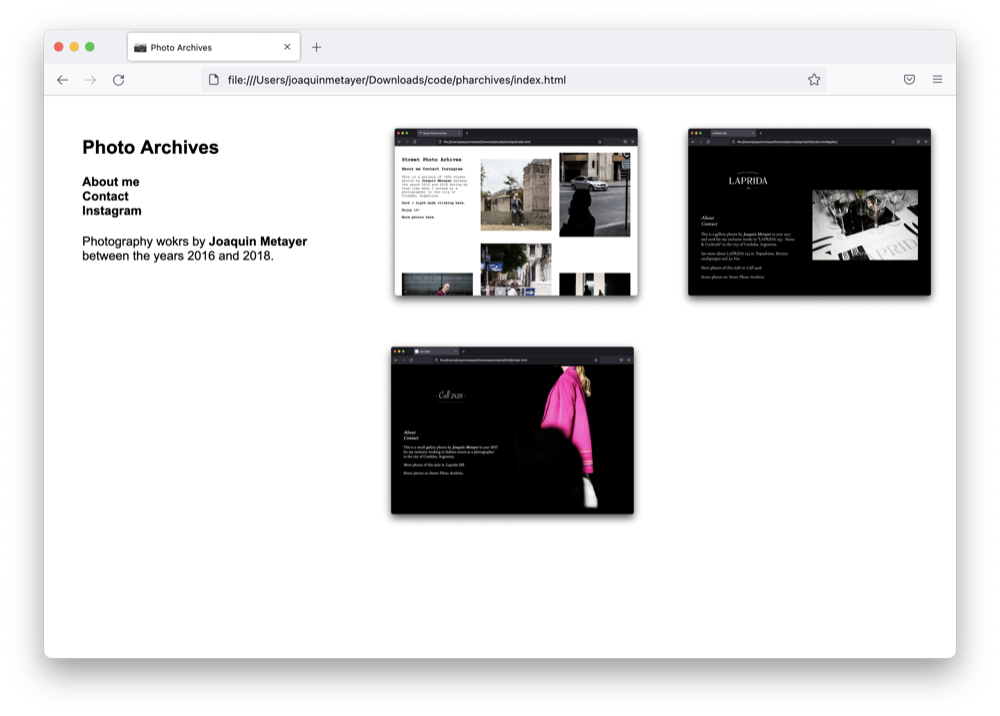
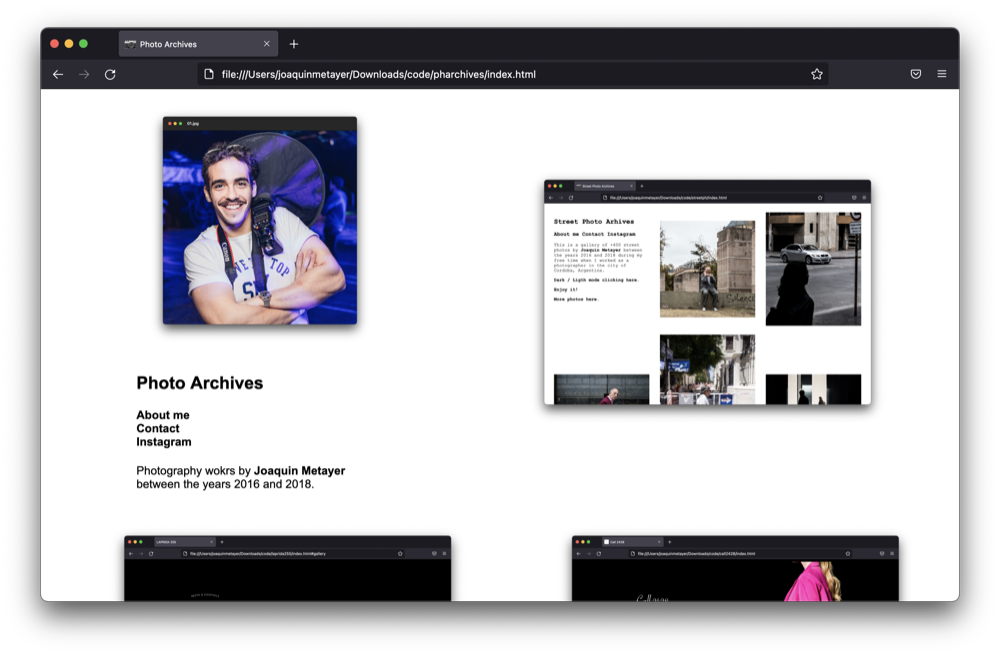
10

diff --git a/index.html b/index.html
@@ -8,14 +8,17 @@
     <link href="https://emojipedia-us.s3.dualstack.us-west-1.amazonaws.com/thumbs/240/apple/325/camera_1f4f7.png" rel="icon">
   </head>
   <body>
+    
     <div id="gallery">
+      
       <div id="description">
+        <img src="./Screen Shot 2022-07-17 at 00.25.27.png">
         <h2>Photo Archives </h2>
         <h4><a href="https://joaquinmetayer.github.io/personalweb/about.html" target="_blank"><strong>About me</strong></a><br>
             <a href="https://joaquinmetayer.github.io/personalweb/contact.html" target="_blank"><strong>Contact</strong></a><br>
             <a href="https://www.instagram.com/joaquinmetayer" target="_blank"><strong>Instagram</strong></a>
         </h4>
-        <p>Photography wokrs by <a href="https://joaquinmetayer.github.io/personalweb/index.html" target="_blank"><b>Joaquin Metayer</b></a> between the years 2016 and 2018.</p>
+        <p>Photography wokrs by <a href="https://joaquinmetayer.github.io/personalweb/index.html" target="_blank"><b>Joaquin Metayer</b></a> between the years 2016 and 2018.</p><br>
       </div>
       <a href="https://joaquinmetayer.github.io/streetph" target="_blank"><img src="https://raw.githubusercontent.com/joaquinmetayer/streetph/main/media/Screen%20Shot%202022-07-15%20at%2022.48.38.png"/></a>
       <a href="https://joaquinmetayer.github.io/laprida255" target="_blank"><img src="https://raw.githubusercontent.com/joaquinmetayer/laprida255/main/Screen%20Shot%202022-07-16%20at%2022.35.07.png" /></a>

diff --git a/styles.css b/styles.css
@@ -15,32 +15,30 @@ body {
     background-color: #000;
 }
 #description{
-    width: 30%;
+    width: 25%;
     object-fit:contain;
-    padding: 1em;
-    max-width: 20em;
 }
-
 #gallery {
     display: flex;
     flex-wrap: wrap;
     justify-content: space-around;
+    align-items: center;
 }
 #gallery img {
     width: 100%;
     object-fit:contain;
-    padding: 1em;
 }
 #gallery a {
-    width: 30%;
+    width: 40%;
     object-fit:contain;
-
+}
+#gallery a :hover{
+    filter: grayscale(100);
 }
 @media (max-width: 1000px) {
     #gallery a {
         width: 100%;
         object-fit:contain;
-    
     }
     #description{
       width: 100%;
